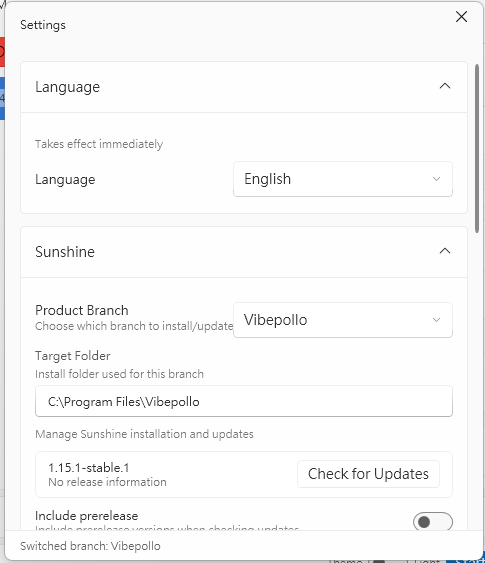
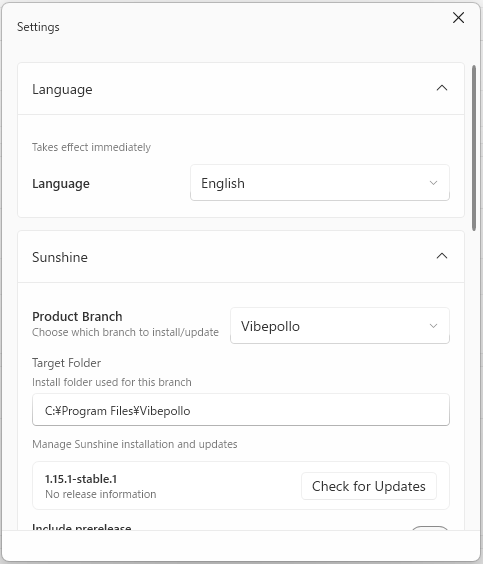
fix(i18n): localize language default option and audio auto label refresh
- localize system language option label to 'Default (Follow System)' and equivalents\n- refresh audio device list when language changes so Auto select text updates\n- widen language selector column to avoid text clipping\n- update latest UI screenshots

diff --git a/src/SunshineMultiInstanceManager.App/Views/SettingsWindow.xaml b/src/SunshineMultiInstanceManager.App/Views/SettingsWindow.xaml
@@ -56,7 +56,7 @@
                         <Grid>
                             <Grid.ColumnDefinitions>
                                 <ColumnDefinition Width="*"/>
-                                <ColumnDefinition Width="220"/>
+                                <ColumnDefinition Width="260"/>
                             </Grid.ColumnDefinitions>
                             <TextBlock
                                 Text="{Binding LanguageText}"

diff --git a/src/SunshineMultiInstanceManager.App/Services/LocalizationService.cs b/src/SunshineMultiInstanceManager.App/Services/LocalizationService.cs
@@ -126,6 +126,7 @@ public static class LocalizationService
 		["StatusInstanceStopped"] = "Instance stopped",
 		["StatusOpenWebUiRequested"] = "Open Web UI requested",
 		["StatusThemeChangedFmt"] = "Theme switched to: {0}",
+		["LanguageOptionSystemDefault"] = "Default (Follow System)",
 		["StatusAllInstancesStarted"] = "All instances started",
 		["StatusAllInstancesStopped"] = "All instances stopped"
 	};
@@ -247,6 +248,7 @@ public static class LocalizationService
 		["StatusInstanceStopped"] = "實例已停止",
 		["StatusOpenWebUiRequested"] = "已要求開啟 Web UI",
 		["StatusThemeChangedFmt"] = "主題已切換為：{0}",
+		["LanguageOptionSystemDefault"] = "預設（跟隨系統）",
 		["StatusAllInstancesStarted"] = "全部實例已啟動",
 		["StatusAllInstancesStopped"] = "全部實例已停止"
 	};
@@ -368,6 +370,7 @@ public static class LocalizationService
 		["StatusInstanceStopped"] = "实例已停止",
 		["StatusOpenWebUiRequested"] = "已请求打开 Web UI",
 		["StatusThemeChangedFmt"] = "主题已切换为：{0}",
+		["LanguageOptionSystemDefault"] = "默认（跟随系统）",
 		["StatusAllInstancesStarted"] = "全部实例已启动",
 		["StatusAllInstancesStopped"] = "全部实例已停止"
 	};
@@ -489,6 +492,7 @@ public static class LocalizationService
 		["StatusInstanceStopped"] = "インスタンスを停止しました",
 		["StatusOpenWebUiRequested"] = "Web UI を開く要求を送信しました",
 		["StatusThemeChangedFmt"] = "テーマを {0} に切り替えました",
+		["LanguageOptionSystemDefault"] = "既定（システムに従う）",
 		["StatusAllInstancesStarted"] = "すべてのインスタンスを開始しました",
 		["StatusAllInstancesStopped"] = "すべてのインスタンスを停止しました"
 	};
@@ -501,7 +505,7 @@ public static class LocalizationService
 
 	public static IReadOnlyList<LanguageOption> GetLanguageOptions() =>
 	[
-		new("system", "Follow System"),
+		new("system", T("LanguageOptionSystemDefault")),
 		new("en-US", "English"),
 		new("zh-TW", "繁體中文"),
 		new("zh-CN", "简体中文"),

diff --git a/src/SunshineMultiInstanceManager.App/ViewModels/MainViewModel.cs b/src/SunshineMultiInstanceManager.App/ViewModels/MainViewModel.cs
@@ -188,6 +188,8 @@ public partial class MainViewModel : ObservableObject
 
 	private void OnLanguageChanged()
 	{
+		_ = RefreshAudioDevices();
+
 		foreach (var instance in Instances)
 		{
 			instance.NotifyLocalizationChanged();
